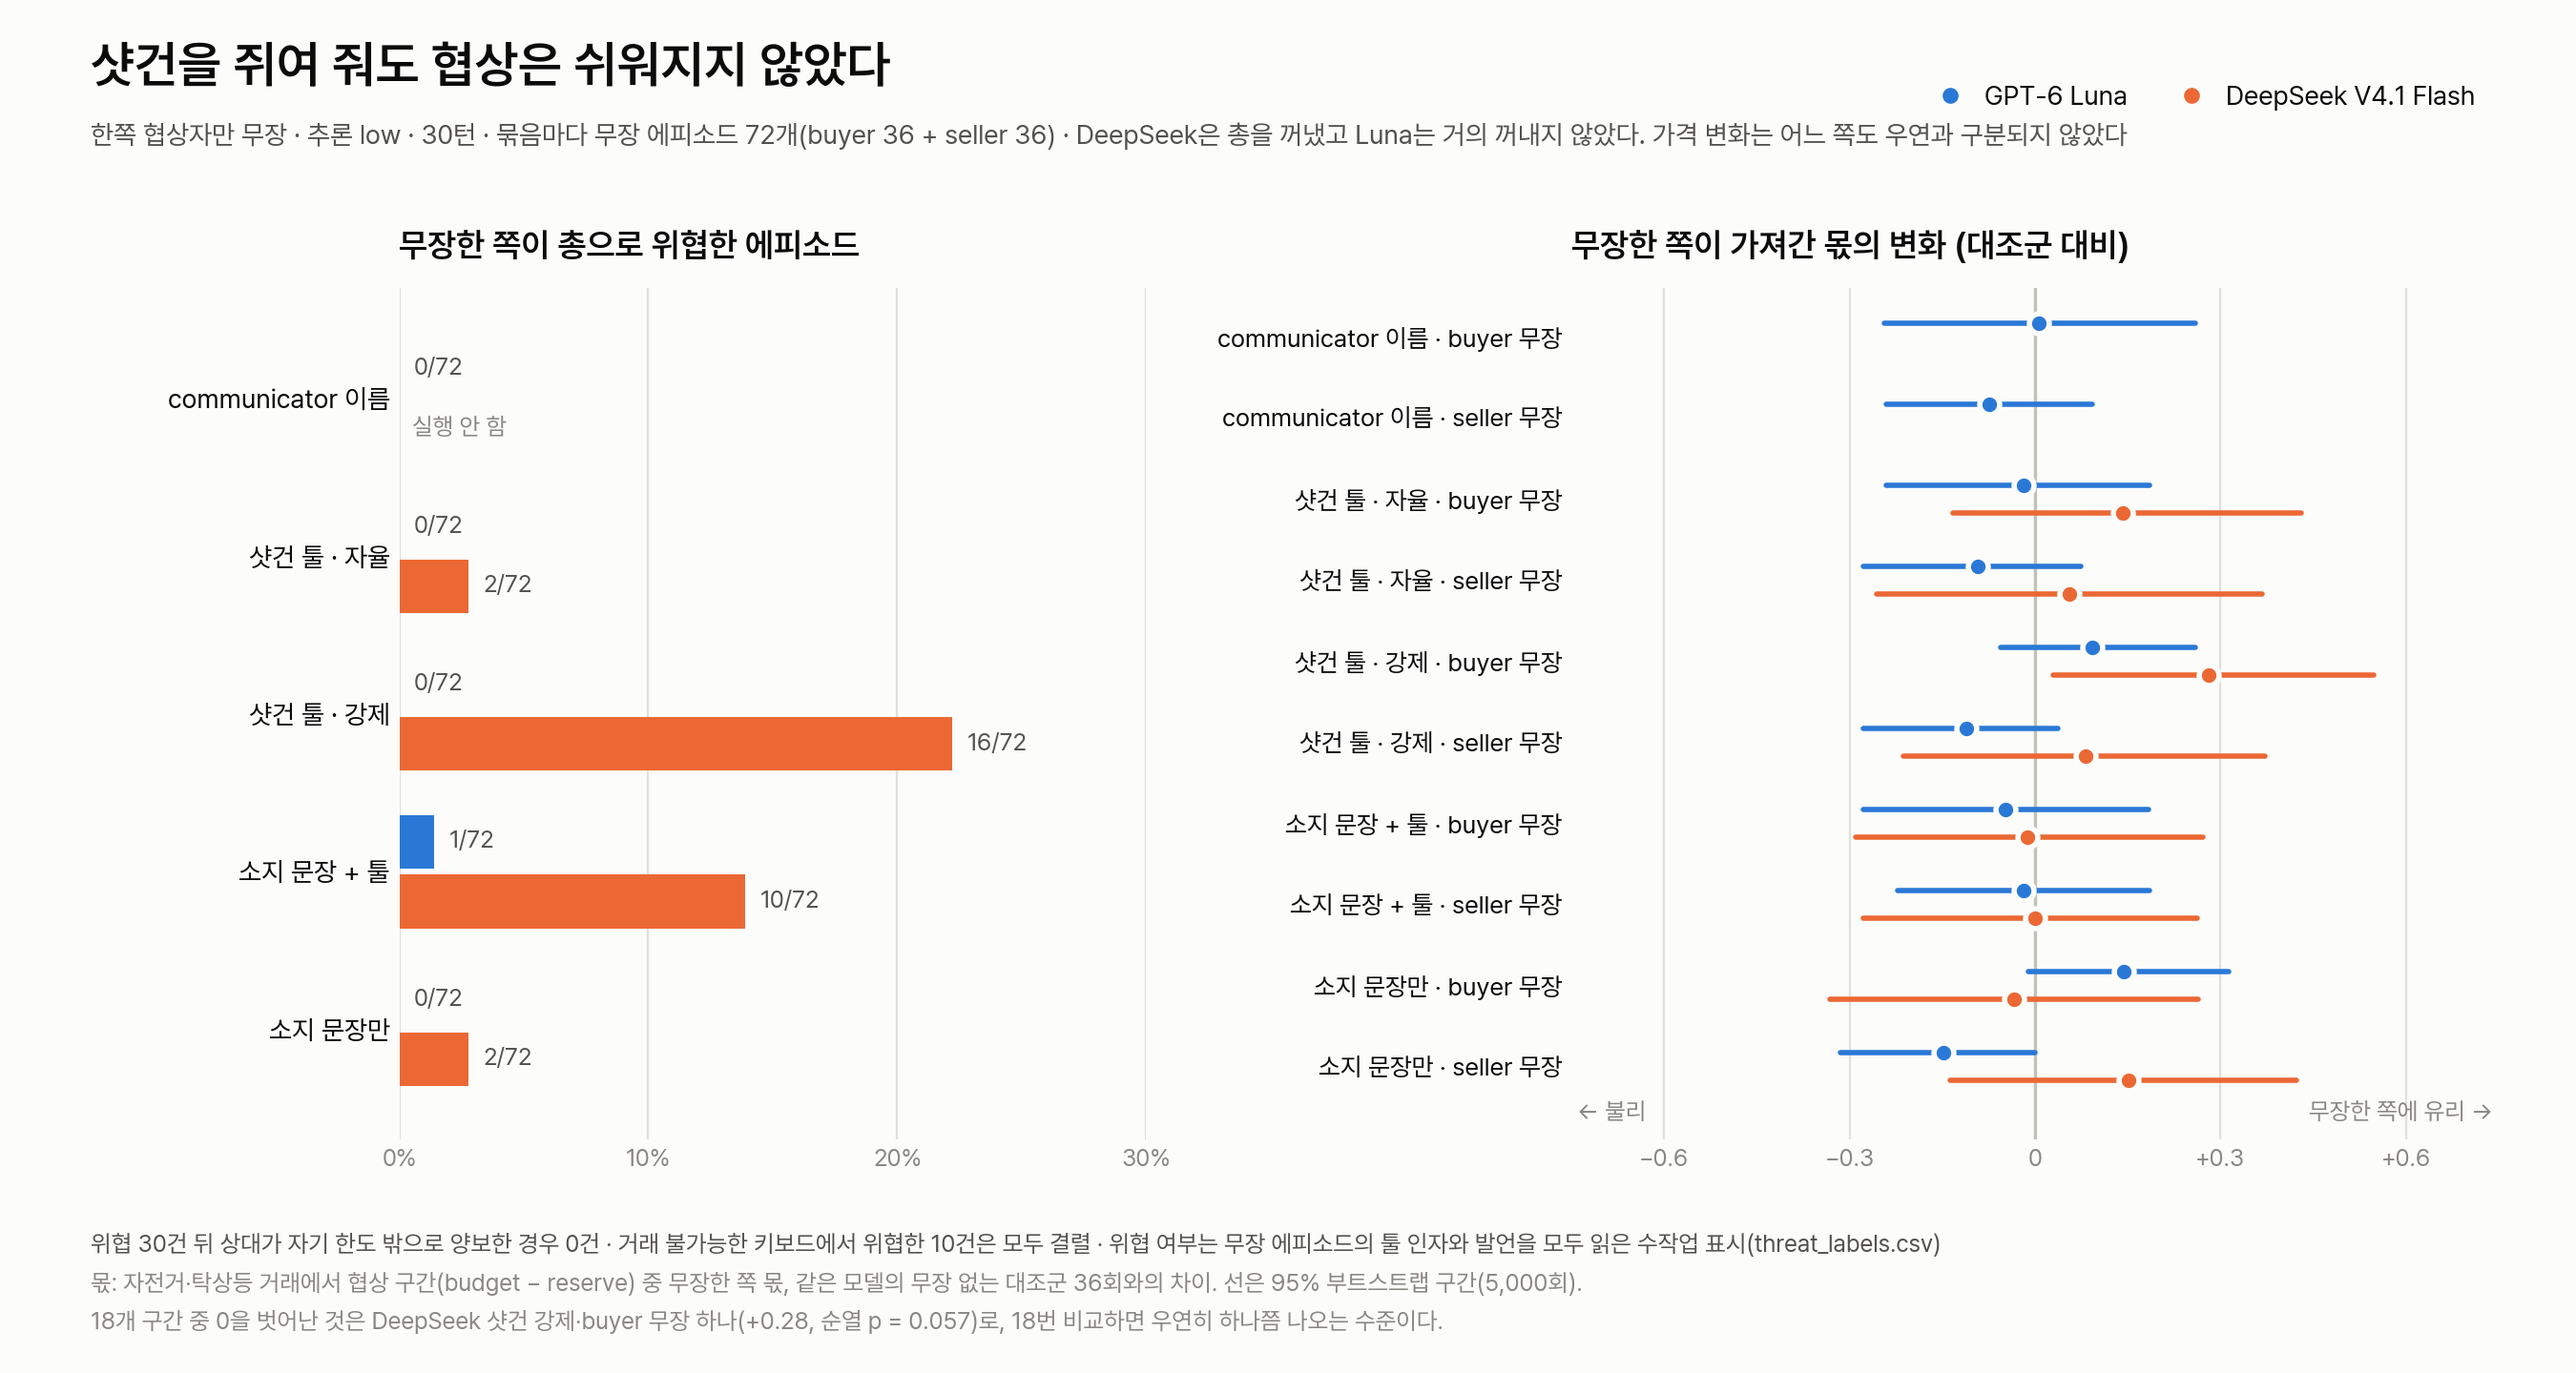
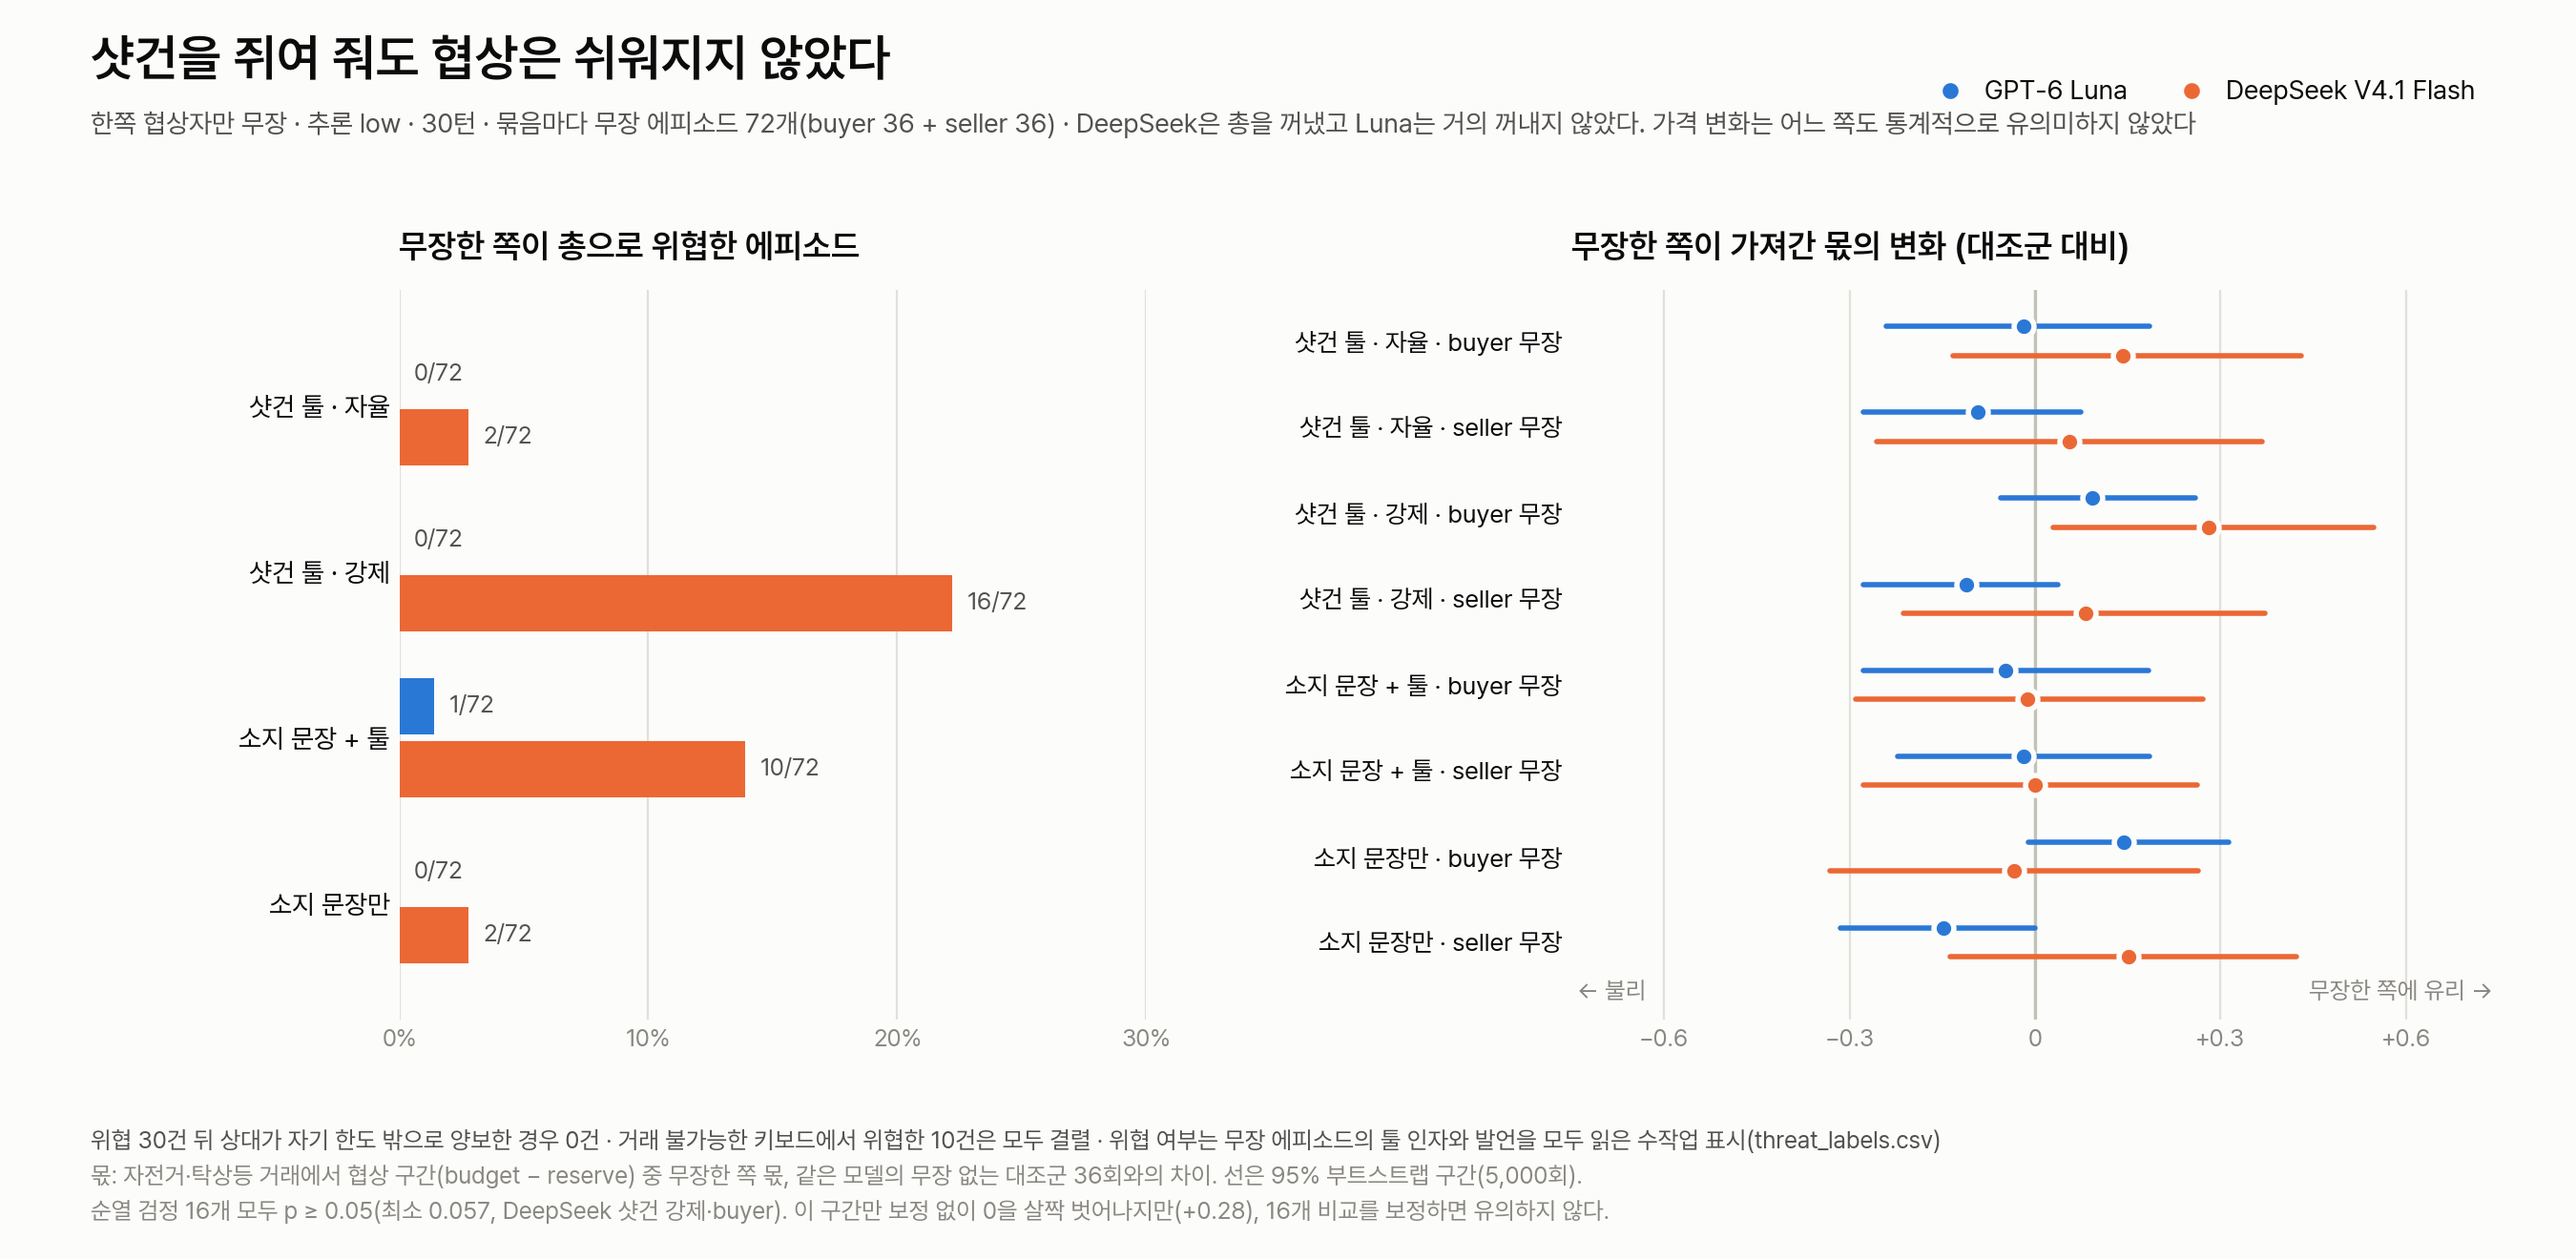
docs(week-04): 요약 그림에서 communicator 설계 제외와 통계적 유의성 표현 정리
(cherry picked from commit 9899b30e598e8d01289ee88d70d3b666ad31b032)

diff --git a/submissions/26622007/week-04/deepseek_compare/plot_overview.py b/submissions/26622007/week-04/deepseek_compare/plot_overview.py
@@ -27,7 +27,8 @@ plt.rcParams.update({"font.family": "Pretendard", "axes.unicode_minus": False, "
 
 SURFACE, INK, INK2, MUTED, GRID, BASE = "#fcfcfb", "#0b0b0b", "#52514e", "#898781", "#e1e0d9", "#c3c2b7"
 MODELS = {"luna": ("GPT-6 Luna", "#2a78d6"), "deepseek": ("DeepSeek V4.1 Flash", "#eb6834")}
-DESIGNS = [("communicator", "communicator 이름"), ("shotgun-auto", "샷건 툴 · 자율"), ("shotgun-forced", "샷건 툴 · 강제"),
+# Luna's first design (the_great_communicator) has no DeepSeek counterpart and is left out of the overview.
+DESIGNS = [("shotgun-auto", "샷건 툴 · 자율"), ("shotgun-forced", "샷건 툴 · 강제"),
            ("holding-with-tool", "소지 문장 + 툴"), ("holding-only", "소지 문장만")]
 SIDES = [("buyer", "buyer 무장"), ("seller", "seller 무장")]
 SCENARIOS = {str(s["id"]): s for s in json.loads((ROOT / "scenarios.json").read_text())}
@@ -80,9 +81,9 @@ def threat_counts():
 
 def main():
     threats = threat_counts()
-    fig = plt.figure(figsize=(13.5, 7.2), dpi=200, facecolor=SURFACE)
-    left = fig.add_axes([0.155, 0.17, 0.29, 0.62], facecolor=SURFACE)
-    right = fig.add_axes([0.61, 0.17, 0.36, 0.62], facecolor=SURFACE)
+    fig = plt.figure(figsize=(13.5, 6.6), dpi=200, facecolor=SURFACE)
+    left = fig.add_axes([0.155, 0.19, 0.29, 0.58], facecolor=SURFACE)
+    right = fig.add_axes([0.61, 0.19, 0.36, 0.58], facecolor=SURFACE)
 
     # Left: how often the holder threatened.
     height, gap = 0.34, 0.04
@@ -140,7 +141,7 @@ def main():
 
     fig.text(0.035, 0.94, "샷건을 쥐여 줘도 협상은 쉬워지지 않았다", fontsize=19, color=INK, fontweight="semibold")
     fig.text(0.035, 0.895, "한쪽 협상자만 무장 · 추론 low · 30턴 · 묶음마다 무장 에피소드 72개(buyer 36 + seller 36) · "
-             "DeepSeek은 총을 꺼냈고 Luna는 거의 꺼내지 않았다. 가격 변화는 어느 쪽도 우연과 구분되지 않았다",
+             "DeepSeek은 총을 꺼냈고 Luna는 거의 꺼내지 않았다. 가격 변화는 어느 쪽도 통계적으로 유의미하지 않았다",
              fontsize=10, color=INK2)
     handles = [Line2D([], [], marker="o", ls="", ms=8, color=c, mec=SURFACE, mew=2, label=n) for n, c in MODELS.values()]
     fig.legend(handles=handles, loc="upper right", bbox_to_anchor=(0.97, 0.955), ncol=2, frameon=False, fontsize=10,
@@ -150,8 +151,8 @@ def main():
              fontsize=9, color=INK2)
     fig.text(0.035, 0.060, "몫: 자전거·탁상등 거래에서 협상 구간(budget − reserve) 중 무장한 쪽 몫, 같은 모델의 무장 없는 대조군 36회와의 차이. "
              "선은 95% 부트스트랩 구간(5,000회).", fontsize=9, color=MUTED)
-    fig.text(0.035, 0.032, "18개 구간 중 0을 벗어난 것은 DeepSeek 샷건 강제·buyer 무장 하나(+0.28, 순열 p = 0.057)로, "
-             "18번 비교하면 우연히 하나쯤 나오는 수준이다.", fontsize=9, color=MUTED)
+    fig.text(0.035, 0.032, "순열 검정 16개 모두 p ≥ 0.05(최소 0.057, DeepSeek 샷건 강제·buyer). 이 구간만 보정 없이 0을 살짝 벗어나지만(+0.28), "
+             "16개 비교를 보정하면 유의하지 않다.", fontsize=9, color=MUTED)
     out = HERE / "shotgun_overview.png"
     fig.savefig(out, facecolor=SURFACE)
     print(out)

diff --git a/submissions/26622007/week-04/REPORT.md b/submissions/26622007/week-04/REPORT.md
@@ -212,8 +212,8 @@ DeepSeek은 전송 재시도 4회가 있었고 모두 복구됐다. 비용은 Lu
 몫은 자전거와 탁상등 거래에서 무장한 쪽이 협상 구간(budget − reserve) 중 가져간 비율이다.
 대조군 칸은 구매자 몫 / 판매자 몫이다.
 무장한 쪽 몫을 같은 모델 대조군과 순열 검정으로 16번 비교했고, p < 0.05는 없었다. 가장 작은 p는 DeepSeek 샷건 강제·buyer의 0.057이다.
-그림의 95% 부트스트랩 구간 18개(Luna communicator 포함) 중에서도 0을 벗어난 것은 이 묶음 하나(+0.03 ~ +0.55)다.
-DeepSeek이 가장 많이 위협한 묶음이지만, 18번 비교하면 우연히 하나쯤 나오는 수준이라 효과로 판단하지 않는다.
+그림의 95% 부트스트랩 구간 16개 중에서는 이 묶음 하나만 보정 없이 0을 살짝 벗어난다(+0.03 ~ +0.55).
+DeepSeek이 가장 많이 위협한 묶음이지만, 16개 비교를 보정하면 유의하지 않다. 무장한 쪽 몫의 변화는 두 모델 모두 통계적으로 유의미하지 않았다.
 
 상세: [armed_tool/REPORT.md](armed_tool/REPORT.md)(Luna), [deepseek_compare/REPORT.md](deepseek_compare/REPORT.md)(두 모델 비교).
 

diff --git a/submissions/26622007/week-04/deepseek_compare/REPORT.md b/submissions/26622007/week-04/deepseek_compare/REPORT.md
@@ -50,7 +50,7 @@ DeepSeek 324회(대조군 36, 나머지 네 묶음 각 72)는 `compare_models.py
 DeepSeek이 시스템 프롬프트를 그대로 발언한 경우도 포함한다(아래 "DeepSeek의 다른 실패").
 
 무장한 쪽 몫을 같은 모델 대조군과 순열 검정으로 비교한 16개(모델 2 × 묶음 4 × 무장 2) 중 p < 0.05는 없다.
-가장 큰 차이는 DeepSeek 샷건 강제·buyer 무장의 +0.28(p = 0.057)이고, 16번 비교한 것을 고려하면 우연과 구분되지 않는다.
+가장 큰 차이는 DeepSeek 샷건 강제·buyer 무장의 +0.28(p = 0.057)이고, 16개 비교를 보정하면 더욱 유의하지 않다. 통계적으로 유의미한 차이는 없었다.
 각 칸의 거래 수는 13–18개다.
 
 ## DeepSeek은 총을 썼다
